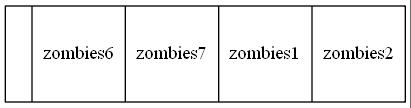
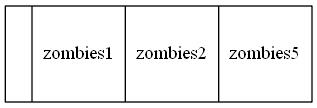
graficos, pila,cola,jugadores,personajes, reparado lo de personajes

Changed region(s): [[0.0568, 0.0, 1.0, 1.0], [0.0, 0.0556, 0.0284, 0.9444]]

diff --git a/Plants/src/plants/picola.java b/Plants/src/plants/picola.java
@@ -65,9 +65,6 @@ public class picola extends javax.swing.JPanel implements Runnable {
             for(int i=0;i<(tamano);i++)
             {
                 {
-                    
-                    //this.control=i;
-                    
                     objeto n=new objeto();
                     te=personajeRandom();
                     if(te!=null)
@@ -86,7 +83,7 @@ public class picola extends javax.swing.JPanel implements Runnable {
         }
         else
         {
-            for(int i=0;i<(tamano+1);i++)
+            for(int i=0;i<(tamano);i++)
             {
                 objeto n=new objeto();
                     te=personajeRandom();
